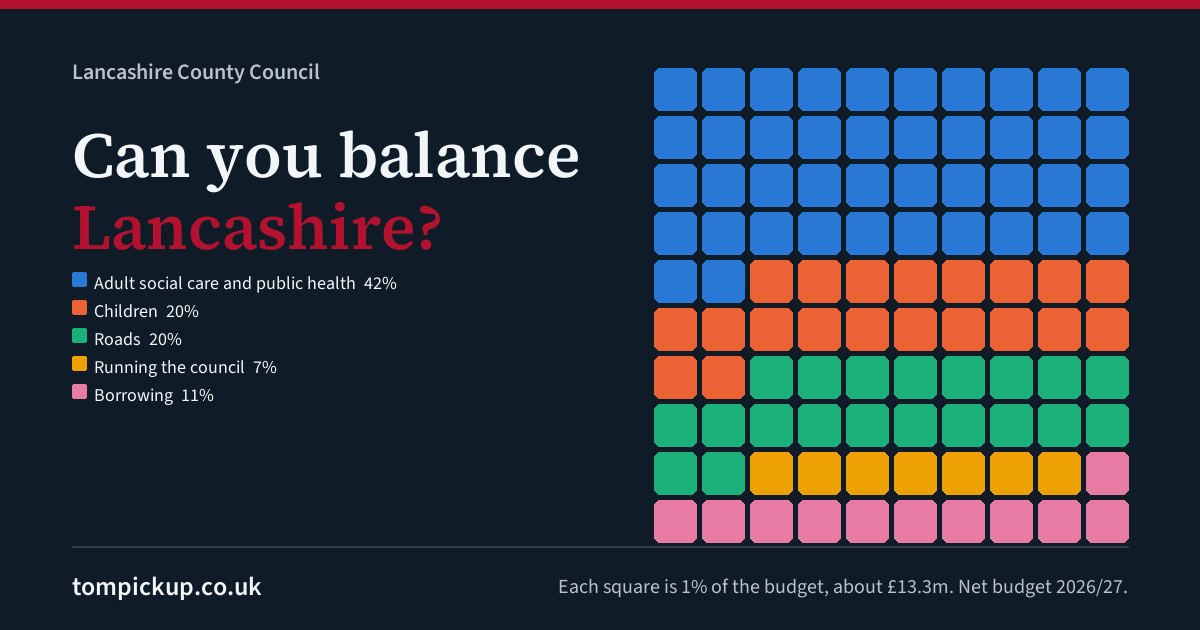
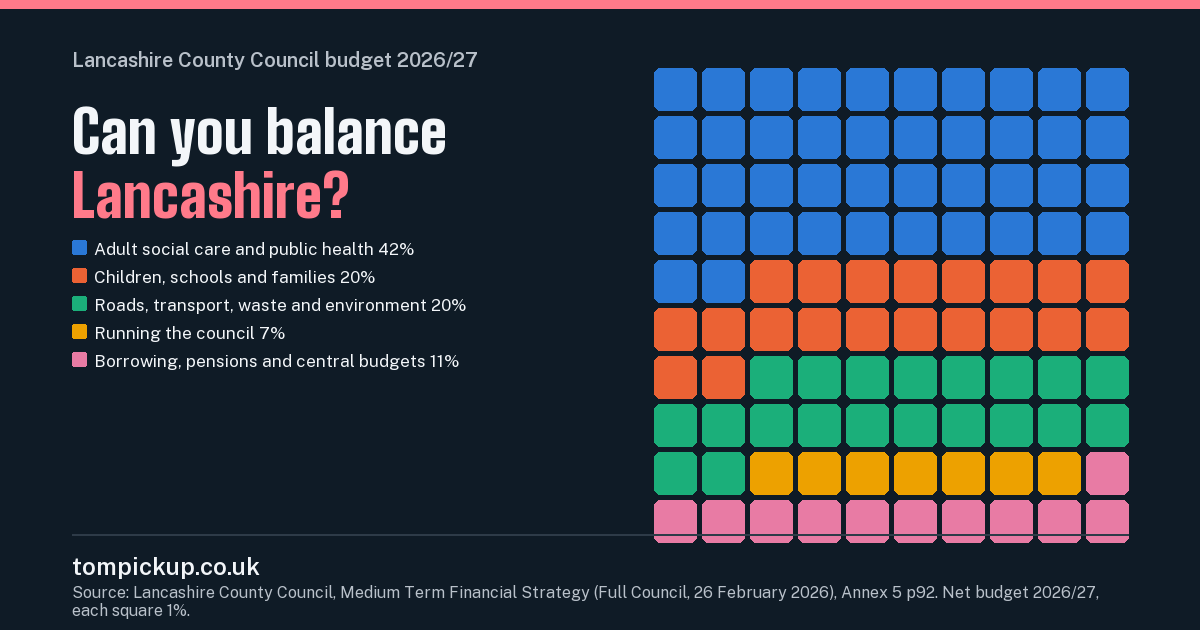
Fix budget game card review: labels, source, palette, build guard, hero links (R554)

Changed region(s): [[0.0617, 0.0603, 0.4933, 0.6333], [0.0617, 0.8444, 0.9558, 0.9952], [0.0, 0.0, 1.0, 0.0302]]

diff --git a/scripts/generate_budget_game_card.py b/scripts/generate_budget_game_card.py
@@ -1,10 +1,10 @@
 #!/usr/bin/env python3
 """Share card for /lcc-budget-game/: the page waffle at 1200x630.
 
-Figures and colours come only from src/data/lcc-budget-game/game.html.
-No portrait and no person's name.
+Figures, labels, colours and the source line come only from
+src/data/lcc-budget-game/game.html. No portrait and no person's name.
 
-Run after npm install:
+Run after npm install (also called from the site prebuild):
   uv run --no-project --with pillow python scripts/generate_budget_game_card.py
 """
 import json
@@ -15,12 +15,13 @@ from PIL import Image, ImageDraw, ImageFont
 
 W, H = 1200, 630
 M = 72
-HERO = (15, 27, 38)
-INK = (243, 246, 249)
+HERO = (15, 27, 38)          # page --hero / #0F1B26
+INK = (243, 246, 249)        # page --hero-ink
 MUTED = (185, 193, 202)
-ROSE = (179, 18, 46)
+# Page hero rose for "Lancashire?" on navy (#FF7A8A), not the light-ground --rose.
+ROSE = (255, 122, 138)
 COLS = {
-    "rose": (42, 120, 214),
+    "rose": (42, 120, 214),   # page --c1 light
     "blue": (235, 98, 52),
     "green": (27, 175, 122),
     "ochre": (237, 161, 0),
@@ -30,10 +31,11 @@ COLS = {
 HERE = os.path.dirname(os.path.abspath(__file__))
 ROOT = os.path.join(HERE, "..")
 FONTS = os.path.join(ROOT, "node_modules", "@fontsource")
+# Game display face (Big Shoulders Display 900) and body (Public Sans).
 FACES = {
-    "serif": ("source-serif-4", "source-serif-4-latin-600-normal.woff2"),
-    "sans": ("source-sans-3", "source-sans-3-latin-400-normal.woff2"),
-    "sans-semibold": ("source-sans-3", "source-sans-3-latin-600-normal.woff2"),
+    "display": ("big-shoulders-display", "big-shoulders-display-latin-900-normal.woff"),
+    "sans": ("public-sans", "public-sans-latin-400-normal.woff"),
+    "sans-semibold": ("public-sans", "public-sans-latin-600-normal.woff"),
 }
 
 
@@ -72,10 +74,27 @@ def waffle_cells(values, total):
     """Largest remainder method, matching waffleSVG in game.html."""
     raw = [v / total * 100 for v in values]
     cells = [int(r) for r in raw]
-    remainders = sorted(((raw[i]-cells[i], i) for i in range(len(raw))), reverse=True)
-    for _, i in remainders[:100-sum(cells)]:
+    remainders = sorted(((raw[i] - cells[i], i) for i in range(len(raw))), reverse=True)
+    for _, i in remainders[: 100 - sum(cells)]:
         cells[i] += 1
     return cells
+
+
+def source_line(D, by):
+    """Publisher, document, table or page, edition from the data file."""
+    docs = D["meta"]["docs"]
+    # Line shares are Annex 5; requirement_src names Table 3 of the same document.
+    doc = docs["s272628"]
+    title = doc["title"]
+    # Shorten for the card foot without inventing a new document name.
+    # Title is "Medium Term Financial Strategy, Appendix A to the Revenue Budget report, Full Council, 26 February 2026"
+    short = "Medium Term Financial Strategy (Full Council, 26 February 2026)"
+    if "Medium Term Financial Strategy" not in title or "26 February 2026" not in title:
+        short = title
+    return (
+        f"Source: Lancashire County Council, {short}, Annex 5 p92. "
+        f"Net budget {by}, each square 1%."
+    )
 
 
 def main():
@@ -86,21 +105,26 @@ def main():
     for line in D["lines"]:
         block_vals[line["block"]] += line["values"][by]
     items = [
-        {"label": b["label"], "val": block_vals[b["id"]], "color": COLS[b["colour"]]}
+        {
+            "id": b["id"],
+            "label": b["label"],
+            "val": block_vals[b["id"]],
+            "color": COLS[b["colour"]],
+        }
         for b in D["blocks"]
     ]
     cells = waffle_cells([it["val"] for it in items], req)
-    square_m = req / 100
-    source = f"Each square is 1% of the budget, about £{square_m:.1f}m. Net budget {by}."
+    source = source_line(D, by)
 
     img = Image.new("RGB", (W, H), HERO)
     d = ImageDraw.Draw(img)
     d.rectangle([0, 0, W, 8], fill=ROSE)
 
-    d.text((M, 56), "Lancashire County Council", font=F("sans-semibold", 22), fill=MUTED)
-    title_font = F("serif", 64)
-    ty = 110
-    for line in wrap(d, "Can you balance Lancashire?", title_font, 520):
+    d.text((M, 48), "Lancashire County Council budget 2026/27", font=F("sans-semibold", 20), fill=MUTED)
+    title_font = F("display", 58)
+    ty = 96
+    title_max = 540
+    for line in wrap(d, "Can you balance Lancashire?", title_font, title_max):
         if "Lancashire" in line:
             before, _, after = line.partition("Lancashire")
             x = M
@@ -110,38 +134,63 @@ def main():
             d.text((x, ty), "Lancashire" + after, font=title_font, fill=ROSE)
         else:
             d.text((M, ty), line, font=title_font, fill=INK)
-        ty += 72
+        ty += 64
 
-    ly = ty + 18
-    for it, n in zip(items, cells):
-        d.rounded_rectangle([M, ly, M+14, ly+14], radius=2, fill=it["color"])
-        short = it["label"].split(",")[0]
-        d.text((M+22, ly-2), f"{short}  {n}%", font=F("sans", 18), fill=INK)
-        ly += 28
-
+    # Legend uses the page's full block names, never a comma truncation.
     cell, gap = 42, 6
-    grid = 10*cell + 9*gap
-    ox = W-M-grid
-    oy = (H-grid)//2-10
+    grid = 10 * cell + 9 * gap
+    ox = W - M - grid
+    legend_max = ox - M - 36
+    ly = ty + 14
+    legend_font = F("sans", 17)
+    for it, n in zip(items, cells):
+        d.rounded_rectangle([M, ly + 2, M + 14, ly + 16], radius=2, fill=it["color"])
+        label = f"{it['label']}  {n}%"
+        lines = wrap(d, label, legend_font, legend_max)
+        for i, ln in enumerate(lines):
+            d.text((M + 22, ly + i * 20), ln, font=legend_font, fill=INK)
+        ly += max(28, 20 * len(lines) + 6)
+
+    oy = (H - grid) // 2 - 10
     palette = []
     for it, n in zip(items, cells):
         palette.extend([it["color"]] * n)
     for k, color in enumerate(palette):
-        x = ox + (k % 10)*(cell+gap)
-        y = oy + (k // 10)*(cell+gap)
-        d.rounded_rectangle([x, y, x+cell, y+cell], radius=6, fill=color)
+        x = ox + (k % 10) * (cell + gap)
+        y = oy + (k // 10) * (cell + gap)
+        d.rounded_rectangle([x, y, x + cell, y + cell], radius=6, fill=color)
 
-    d.line([M, H-84, W-M, H-84], fill=(46, 59, 72), width=2)
-    d.text((M, H-62), "tompickup.co.uk", font=F("sans-semibold", 26), fill=INK)
-    src_font = F("sans", 20)
-    sw = d.textlength(source, font=src_font)
-    d.text((W-M-sw, H-58), source, font=src_font, fill=MUTED)
+    d.line([M, H - 96, W - M, H - 96], fill=(46, 59, 72), width=2)
+    d.text((M, H - 78), "tompickup.co.uk", font=F("sans-semibold", 24), fill=INK)
+    src_font = F("sans", 16)
+    src_y = H - 48
+    for i, ln in enumerate(wrap(d, source, src_font, W - 2 * M)):
+        d.text((M, src_y + i * 18), ln, font=src_font, fill=MUTED)
 
     outdir = os.path.join(ROOT, "public", "images", "share")
     os.makedirs(outdir, exist_ok=True)
     out = os.path.join(outdir, "lcc-budget-game.png")
     img.save(out, "PNG", optimize=True)
+
+    # Sidecar for the build guard (not under public/: it must not ship as a static file).
+    # Every percentage on the card must match game.html.
+    sidecar = {
+        "base_year": by,
+        "requirement_m": req,
+        "square_m": round(req / 100, 3),
+        "blocks": [
+            {"id": it["id"], "label": it["label"], "pct": n, "value_m": round(it["val"], 3)}
+            for it, n in zip(items, cells)
+        ],
+    }
+    side_dir = os.path.join(ROOT, "src", "data", "lcc-budget-game")
+    side_path = os.path.join(side_dir, "card-figures.json")
+    with open(side_path, "w", encoding="utf-8") as f:
+        json.dump(sidecar, f, indent=2)
+        f.write("\n")
+
     print("wrote", os.path.relpath(out, ROOT))
+    print("wrote", os.path.relpath(side_path, ROOT))
 
 
 if __name__ == "__main__":
